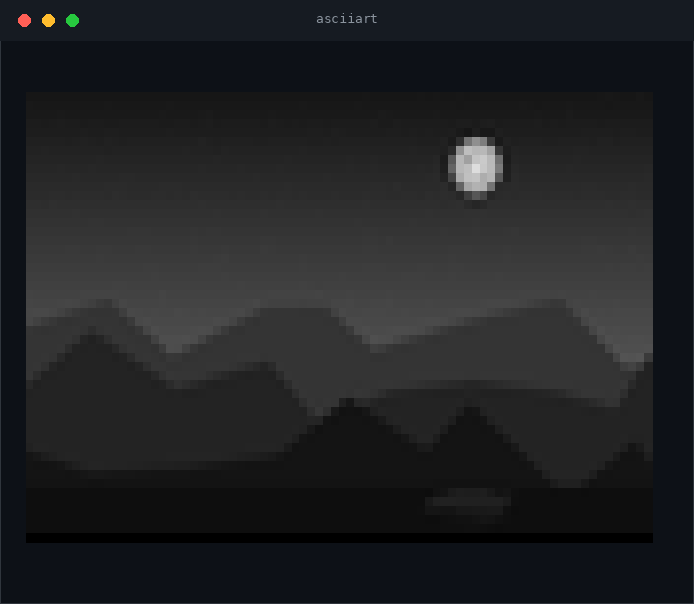
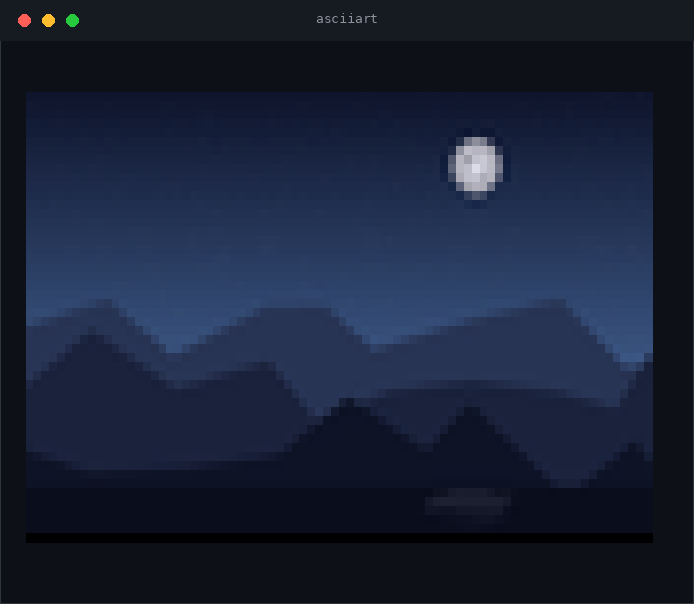
Fix color loss in --format blocks; drop Pillow getdata; update CI
The blocks --color path converted the grid to grayscale before tone
correction, so 24-bit/8-bit output was always gray. Tone correction
now runs on RGB directly; point() LUTs are repeated per band as
current Pillow requires for multiband images.

pixel_grid_* no longer uses Image.getdata (removed in Pillow 14);
grids are built from tobytes(). quantize_256 is memoized.

CI: actions/checkout@v7, actions/setup-python@v7 (Node 20
deprecation). Regression tests pin per-band tone correction and
colored CLI output. 82 tests. Regenerated screenshots and demo GIF
now show real color.

diff --git a/tests/test_imaging.py b/tests/test_imaging.py
@@ -17,6 +17,10 @@ def gradient(width=100, height=50):
     return img
 
 
+def gray_sums(img):
+    return sum(img.tobytes())
+
+
 @unittest.skipUnless(HAS_PIL, "Pillow not installed")
 class TestGrid(unittest.TestCase):
     def test_grid_dimensions(self):
@@ -41,16 +45,16 @@ class TestTone(unittest.TestCase):
     def test_gamma_darkens(self):
         base = gradient(256, 1)
         dark = imaging.adjust_tone(base, gamma=2.0)
-        self.assertLess(sum(dark.getdata()), sum(base.getdata()))
+        self.assertLess(gray_sums(dark), gray_sums(base))
 
     def test_brightness_clamps(self):
         bright = imaging.adjust_tone(gradient(256, 1), brightness=5.0)
-        self.assertEqual(max(bright.getdata()), 255)
+        self.assertEqual(max(bright.tobytes()), 255)
 
     def test_invert(self):
         base = gradient(256, 1)
         inv = imaging.adjust_tone(base, invert=True)
-        self.assertEqual(sum(inv.getdata()), sum(255 - v for v in base.getdata()))
+        self.assertEqual(gray_sums(inv), sum(255 - v for v in base.tobytes()))
 
     def test_auto_levels_stretches(self):
         from PIL import Image
@@ -58,9 +62,49 @@ class TestTone(unittest.TestCase):
         low_contrast = Image.new("L", (10, 10))
         low_contrast.putdata([100 + (x + y) % 51 for y in range(10) for x in range(10)])
         stretched = imaging.adjust_tone(low_contrast, auto_levels=True)
-        values = list(stretched.getdata())
-        self.assertIn(0, values)
-        self.assertIn(255, values)
+        self.assertIn(0, stretched.tobytes())
+        self.assertIn(255, stretched.tobytes())
+
+    def test_rgb_tone_preserves_channels(self):
+        from PIL import Image
+
+        img = Image.new("RGB", (4, 1), (200, 40, 30))
+        out = imaging.adjust_tone(img, gamma=1.5)
+        self.assertEqual(out.mode, "RGB")
+        r, g, b = out.getpixel((0, 0))
+        self.assertNotEqual((r, g, b), (r, r, r), "RGB must not collapse to gray")
+        self.assertGreater(g, b, "channel order must survive tone correction")
+
+    def test_rgb_auto_levels_per_band(self):
+        from PIL import Image
+
+        # red band low-contrast near 200, green band near 60
+        img = Image.new("RGB", (8, 1))
+        img.putdata([(200 + (x % 3), 60 + (x % 3), 128) for x in range(8)])
+        out = imaging.adjust_tone(img, auto_levels=True)
+        pixels = [out.getpixel((x, 0)) for x in range(8)]
+        self.assertTrue(any(p[0] == 255 for p in pixels), "red band must stretch")
+        self.assertTrue(any(p[1] == 0 for p in pixels), "green band must stretch")
+
+
+@unittest.skipUnless(HAS_PIL, "Pillow not installed")
+class TestPixelGrid(unittest.TestCase):
+    def test_gray_grid_matches_pixel_access(self):
+        from PIL import Image
+
+        img = gradient(7, 5)
+        grid = imaging.pixel_grid_gray(img)
+        self.assertEqual(len(grid), 5)
+        self.assertEqual(len(grid[0]), 7)
+        self.assertEqual(grid[2][3], img.getpixel((3, 2)))
+
+    def test_rgb_grid_matches_pixel_access(self):
+        from PIL import Image
+
+        img = Image.new("RGB", (5, 3))
+        img.putdata([(10, 20, 30), (40, 50, 60), (70, 80, 90)] * 5)
+        grid = imaging.pixel_grid_rgb(img)
+        self.assertEqual(grid[1][2], img.getpixel((2, 1)))
 
 
 @unittest.skipUnless(HAS_PIL, "Pillow not installed")

diff --git a/asciiart/imaging.py b/asciiart/imaging.py
@@ -6,6 +6,7 @@ from __future__ import annotations
 
 import io
 import os
+from typing import Callable
 
 try:
     from PIL import Image, ImageOps
@@ -79,6 +80,12 @@ def to_grid(
     return img.resize((cols, rows), Image.Resampling.LANCZOS)  # type: ignore[attr-defined]
 
 
+def _lut_for(img: "Image.Image", make: "Callable[[int], int]") -> list[int]:
+    """256-entry LUT, repeated per band so multiband point() accepts it."""
+    lut = [make(v) for v in range(256)]
+    return lut * len(img.getbands()) if len(img.getbands()) > 1 else lut
+
+
 def adjust_tone(
     gray: "Image.Image",
     brightness: float = 1.0,
@@ -87,30 +94,44 @@ def adjust_tone(
     invert: bool = False,
     auto_levels: bool = False,
 ) -> "Image.Image":
-    """Apply tone controls to an L-mode image, in a sensible order."""
+    """Apply tone controls to an image (L or RGB), in a sensible order.
+
+    Point LUTs apply equally to every band, so RGB survives intact; only
+    auto-levels needs band separation (per-channel histogram stretch).
+    """
     out = gray
     if auto_levels:
-        out = ImageOps.autocontrast(out, cutoff=2)
+        if out.mode == "RGB":
+            out = Image.merge("RGB", [ImageOps.autocontrast(band, cutoff=2)
+                                      for band in out.split()])
+        else:
+            out = ImageOps.autocontrast(out, cutoff=2)
     if brightness != 1.0:
-        lut = [min(255, max(0, round(v * brightness))) for v in range(256)]
-        out = out.point(lut)
+        out = out.point(_lut_for(out, lambda v: min(255, max(0, round(v * brightness)))))
     if contrast != 1.0:
-        lut = [min(255, max(0, round((v - 128) * contrast + 128))) for v in range(256)]
-        out = out.point(lut)
+        out = out.point(_lut_for(out, lambda v: min(255, max(0, round((v - 128) * contrast + 128)))))
     if gamma != 1.0:
         # Exponent > 1 darkens midtones, matching e.g. ImageMagick -gamma.
-        lut = [round(255 * ((v / 255) ** gamma)) for v in range(256)]
-        out = out.point(lut)
+        out = out.point(_lut_for(out, lambda v: round(255 * ((v / 255) ** gamma))))
     if invert:
         out = ImageOps.invert(out)
     return out
 
 
 def pixel_grid_gray(img: "Image.Image") -> list[list[int]]:
-    data = list(img.getdata())
-    return [data[y * img.width : (y + 1) * img.width] for y in range(img.height)]
+    if img.mode != "L":
+        img = img.convert("L")
+    raw = img.tobytes()
+    w = img.width
+    return [list(raw[y * w : (y + 1) * w]) for y in range(img.height)]
 
 
 def pixel_grid_rgb(img: "Image.Image") -> list[list[tuple[int, int, int]]]:
-    data = list(img.getdata())
-    return [data[y * img.width : (y + 1) * img.width] for y in range(img.height)]
+    if img.mode != "RGB":
+        img = img.convert("RGB")
+    raw = img.tobytes()
+    w = img.width
+    return [
+        [tuple(raw[(y * w + x) * 3 : (y * w + x) * 3 + 3]) for x in range(w)]
+        for y in range(img.height)
+    ]

diff --git a/asciiart/cli.py b/asciiart/cli.py
@@ -163,15 +163,20 @@ def cmd_image(args: argparse.Namespace, out: io.TextIOBase) -> None:
         elif args.format == "blocks":
             depth = _color_depth(args.color)
             grid = imaging.to_grid(img, cols, aspect)
-            grid = imaging.adjust_tone(
-                grid.convert("L"), args.brightness, args.contrast, args.gamma,
-                args.invert, args.auto_levels,
-            )
             if depth:
-                rgb = grid.convert("RGB")
-                pixels = imaging.pixel_grid_rgb(rgb)
+                # tone correction on RGB: converting to L first would
+                # destroy the colors we are about to render
+                grid = imaging.adjust_tone(
+                    grid, args.brightness, args.contrast, args.gamma,
+                    args.invert, args.auto_levels,
+                )
+                pixels = imaging.pixel_grid_rgb(grid)
                 lines = render.to_blocks_color(pixels, depth=depth)
             else:
+                grid = imaging.adjust_tone(
+                    grid.convert("L"), args.brightness, args.contrast, args.gamma,
+                    args.invert, args.auto_levels,
+                )
                 pixels = imaging.pixel_grid_gray(grid)
                 lines = render.to_blocks_mono(pixels)
         else:

diff --git a/tests/test_cli.py b/tests/test_cli.py
@@ -1,6 +1,7 @@
 import contextlib
 import io
 import os
+import re
 import sys
 import tempfile
 import unittest
@@ -127,6 +128,30 @@ class TestImageCommand(unittest.TestCase):
         )
         self.assertEqual(code, 0, err)
         self.assertIn("\x1b[38;2;", out)
+
+    def test_blocks_color_survives_tone_correction(self):
+        # regression: tone correction must not collapse RGB to grayscale
+        import io as _io
+
+        from PIL import Image
+
+        hue = Image.new("RGB", (20, 10))
+        hue.putdata([(200, 40, 30) for _ in range(20) for _ in range(10)])
+        buffer = _io.BytesIO()
+        hue.save(buffer, "PNG")
+        colored = Path(self.tmp.name) / "hue.png"
+        colored.write_bytes(buffer.getvalue())
+        code, out, err = run_cli(
+            "image", str(colored), "-w", "10", "--format", "blocks",
+            "--color", "24bit", "--gamma", "1.5",
+        )
+        self.assertEqual(code, 0, err)
+        codes = re.findall(r"\x1b\[38;2;(\d+);(\d+);(\d+)m", out)
+        self.assertTrue(codes)
+        self.assertTrue(
+            any(not (r == g == b) for r, g, b in codes),
+            "colored input must produce non-gray output",
+        )
 
     def test_no_color_env_wins(self):
         env = dict(os.environ, NO_COLOR="1")

diff --git a/asciiart/render.py b/asciiart/render.py
@@ -6,6 +6,7 @@ renderer supports it.
 """
 from __future__ import annotations
 
+import functools
 from typing import Sequence
 
 BRAILLE_OFFSET = 0x2800
@@ -41,8 +42,13 @@ def quantize_256(r: int, g: int, b: int) -> int:
 
     Indices 0-15 are the terminal-configurable ANSI primaries and are
     deliberately skipped; the 6x6x6 cube (16-231) and the gray ramp
-    (232-255) have defined colors.
+    (232-255) have defined colors. Memoized: posters repeat colors heavily.
     """
+    return _quantize_uncached(r, g, b)
+
+
+@functools.lru_cache(maxsize=1 << 16)
+def _quantize_uncached(r: int, g: int, b: int) -> int:
     palette = _palette()
     best, best_dist = 16, 1 << 30
     for index in range(16, 256):

diff --git a/asciiart/__init__.py b/asciiart/__init__.py
@@ -15,7 +15,7 @@ Library quick start::
 """
 from __future__ import annotations
 
-__version__ = "1.0.0"
+__version__ = "1.0.1"
 
 from .charsets import CHARSETS
 from .figlet import FigFont, FontError, list_fonts, load_font, render_text
